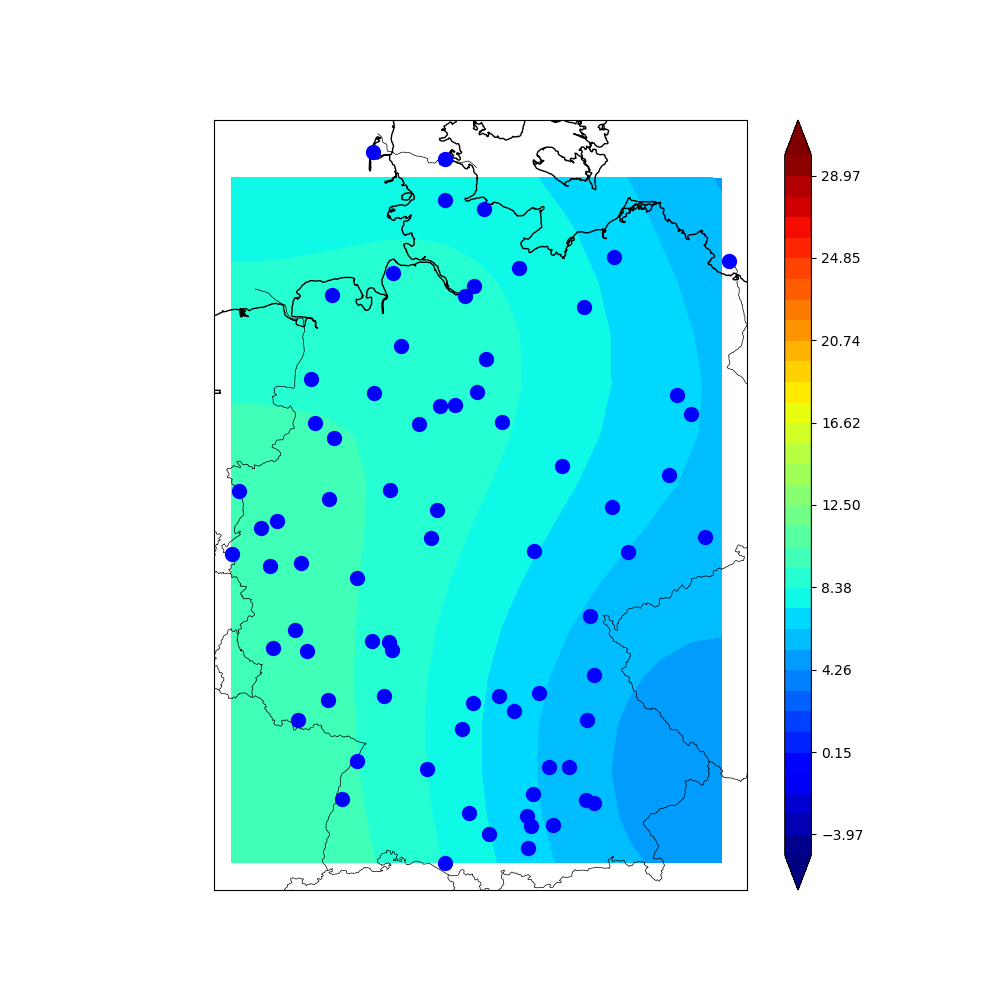
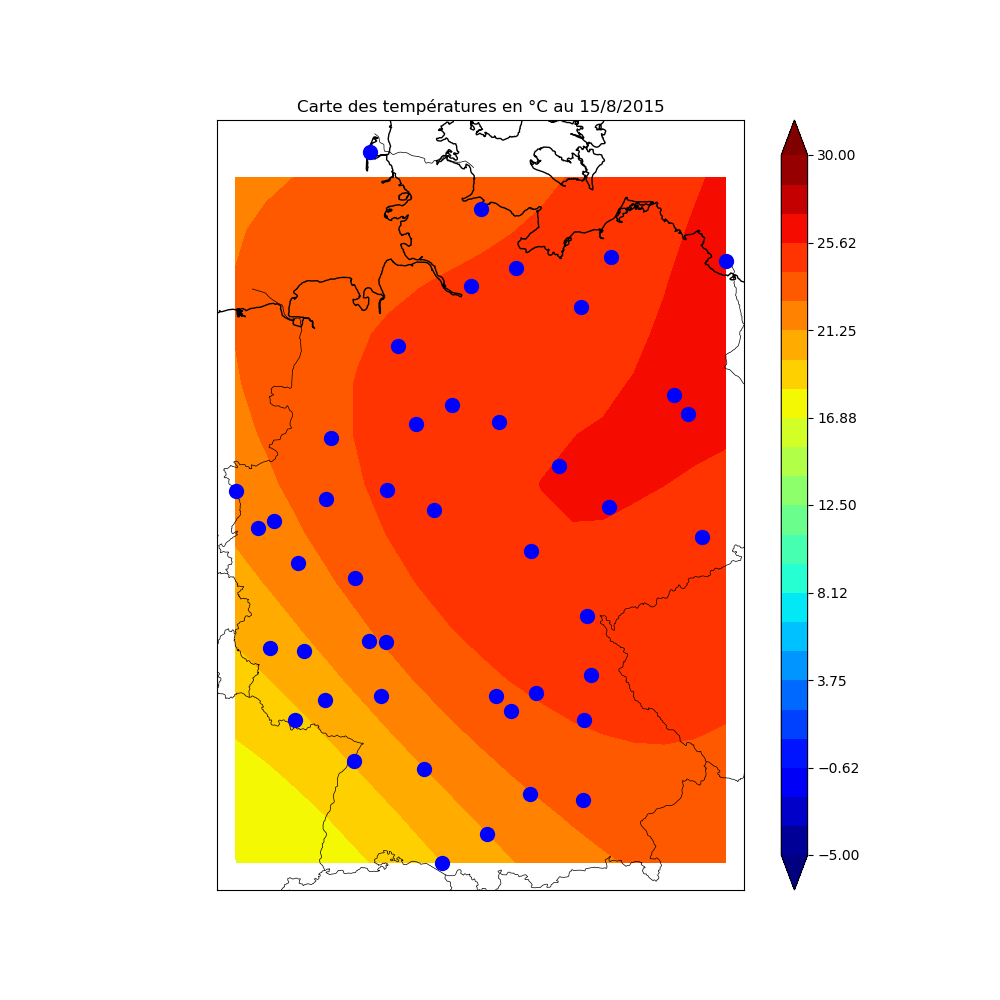
Make programs with dynamic params

diff --git a/question_2.py b/question_2.py
@@ -38,7 +38,7 @@ def get_points(dt):
         data.append({
             'lat': floatNone(result.lat),
             'lon': floatNone(result.lon),
-            'tmpf': float((result.tmpf - 32) * 5/9),
+            'tmpf': float((result.tmpf - 32) * 5/9) if result.tmpf != None else None,
             'relh': floatNone(result.relh),
             'sknt': floatNone(result.sknt),
             'p01i': floatNone(result.p01i),
@@ -50,66 +50,86 @@ def get_points(dt):
 
     return data
 
-data = get_points(datetime(2015, 1, 15, 14))
 
-lons = np.array([item['lon'] for item in data])
-lats = np.array([item['lat'] for item in data])
-tmpf = np.array([item['tmpf'] for item in data])
+if __name__ == '__main__':
+    import sys
+    if len(sys.argv) != 6:
+        print("\nUtiliser ce programme avec 5 arguments : l'année, le mois, le jour, l'heure et un indicateur.")
+        print("ex: question_2.py 2015 1 15 14 tmpf \n")
+        exit()
 
-print(tmpf)
+    year = int(sys.argv[1])
+    month = int(sys.argv[2])
+    day = int(sys.argv[3])
+    hour = int(sys.argv[4])
+    indicator = str(sys.argv[5])
 
-grid_lon = np.arange(lons.min(), lons.max(), 0.5)
-grid_lat = np.arange(lats.min(), lats.max(), 0.5)
+    data = get_points(datetime(year, month, day, hour))
 
-OK = OrdinaryKriging(lons, lats, tmpf, variogram_model='gaussian', verbose=True, enable_plotting=False, nlags=20)
-z1, ss1 = OK.execute('grid', grid_lon, grid_lat)
+    # Transform to np.array
+    lons = np.array([item['lon'] for item in data])
+    lats = np.array([item['lat'] for item in data])
+    indicators = {
+        'tmpf': np.array([item['tmpf'] for item in data]),
+        'relh': np.array([item['relh'] for item in data]),
+        'p01i': np.array([item['p01i'] for item in data])
+    }
 
-xintrp, yintrp = np.meshgrid(grid_lon, grid_lat)
-fix, ax = plt.subplots(figsize=(10, 10))
+    # Make grid of lat and lons
+    grid_lon = np.arange(lons.min(), lons.max(), 0.5)
+    grid_lat = np.arange(lats.min(), lats.max(), 0.5)
 
-m = Basemap(llcrnrlon = lons.min() - 0.3,
-            llcrnrlat = lats.min() - 0.3,
-            urcrnrlon = lons.max() + 0.3,
-            urcrnrlat = lats.max() + 0.3,
-            projection = 'merc',
-            resolution = 'h',
-            area_thresh = 1000,
-            ax = ax)
-m.drawcoastlines()
-m.drawcountries()
+    # Krigging
+    OK = OrdinaryKriging(lons, lats, indicators[indicator], variogram_model='gaussian', verbose=True, enable_plotting=False, nlags=20)
+    z1, ss1 = OK.execute('grid', grid_lon, grid_lat)
 
-x, y = m(xintrp, yintrp)
-ln, lt = m(lons, lats)
-cs = ax.contourf(x, y, z1, np.linspace(-5, 30, 35), extend='both', cmap='jet')
-cbar = m.colorbar(cs, location='right', pad='7%')
+    xintrp, yintrp = np.meshgrid(grid_lon, grid_lat)
+    fix, ax = plt.subplots(figsize=(10, 10))
 
+    m = Basemap(llcrnrlon = lons.min() - 0.3,
+                llcrnrlat = lats.min() - 0.3,
+                urcrnrlon = lons.max() + 0.3,
+                urcrnrlat = lats.max() + 0.3,
+                projection = 'merc',
+                resolution = 'h',
+                area_thresh = 1000,
+                ax = ax)
+    m.drawcoastlines()
+    m.drawcountries()
 
-# # Limits of map
-# x0, x1 = ax.get_xlim()
-# y0, y1 = ax.get_ylim()
-# map_edges = np.array([[x0, y0], [x1, y0], [x1, y1], [x0, y1]])
-# # Get all polygons used to draw the countries
-# polys = [p.boundary for p in m.landpolygons]
+    labels = {
+        'tmpf': {
+            'min': -5,
+            'max': 30,
+            'title': 'Carte des températures en °C',
+        },
+        'relh': {
+            'min': 0,
+            'max': 100,
+            'title': 'Carte l\'humidité en \%',
+        },
+        'p01i': {
+            'min': 0,
+            'max': 100,
+            'title': 'Précipations en pouces',
+        }
+    }
 
-# # Combine with map edge
-# polys = [map_edges] + polys[:]
+    x, y = m(xintrp, yintrp)
+    ln, lt = m(lons, lats)
+    cs = ax.contourf(x, y, z1, np.linspace(
+        labels[indicator]['min'], 
+        labels[indicator]['max'], 
+        labels[indicator]['min'] + abs(labels[indicator]['max'])
+    ), extend='both', cmap='jet')
+    cbar = m.colorbar(cs, location='right', pad='7%')
 
-# # Create a PathPatch
-# codes = [
-#     [Path.MOVETO] + [Path.LINETO for p in p[1:]]
-#     for p in polys
-# ]
+    # Plot station markers
+    for item in data:
+        x, y = m(item['lon'], item['lat'])
+        m.plot(x, y, 'bo', markersize=10)
 
-# polys_lin = [v for p in polys for v in p]
-# codes_lin = [c for c in codes]
-
-# path = Path(polys_lin, codes_lin)
-# patch = PathPatch(path, facecolor='white', lw=0)
-
-# ax.add_patch(patch)
-
-for item in data:
-    x, y = m(item['lon'], item['lat'])
-    m.plot(x, y, 'bo', markersize=10)
-
-plt.savefig('map.png')
+    # plt.ylabel(labels[indicator]['ylabel'])
+    # plt.legend((avg_curve[0], year_curve[0]), ('2009-2018', year))
+    plt.title(labels[indicator]['title'] + ' au {}/{}/{}'.format(day, month, year))
+    plt.savefig('map.png')

diff --git a/question_1.py b/question_1.py
@@ -25,6 +25,7 @@ def month_list():
         {'name': 'déc', 'value': None},
     ]  
 
+
 def get_nearest_station(lat, lon):
     global cluster
     query = "select distinct lat, lon from date_by_location;"
@@ -150,4 +151,4 @@ if __name__ == '__main__':
     plt.ylabel(labels[indicator]['ylabel'])
     plt.legend((avg_curve[0], year_curve[0]), ('2009-2018', year))
     plt.title(labels[indicator]['title'])
-    plt.savefig('{}.png'.format(indicator))
+    plt.savefig('curve.png')

diff --git a/insert-data.py b/insert-data.py
@@ -13,6 +13,6 @@ for row in data:
     if (i % 1000) == 0:
         print(i)
     row = split_daytime(row)
-    query = format_insert_query("data_by_datetime", row)
+    query = format_insert_query("date_by_location", row)
 
     ks.execute(query)
